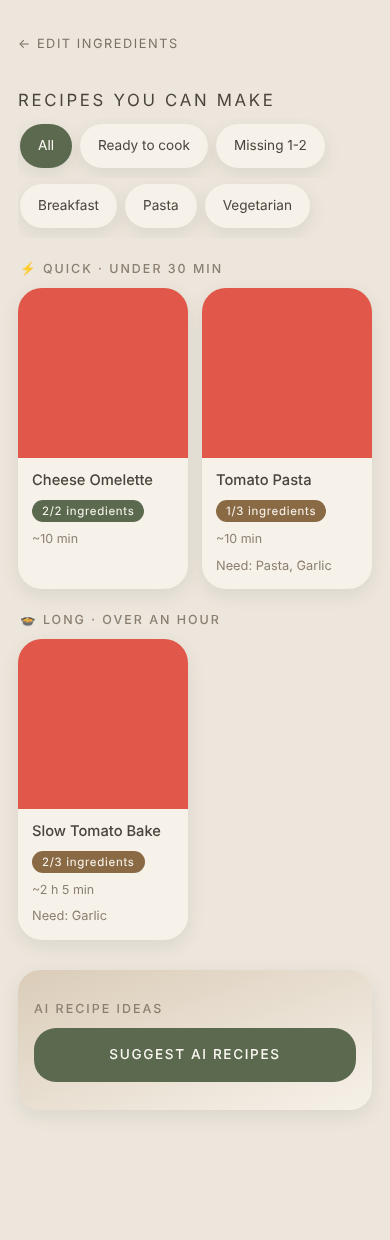
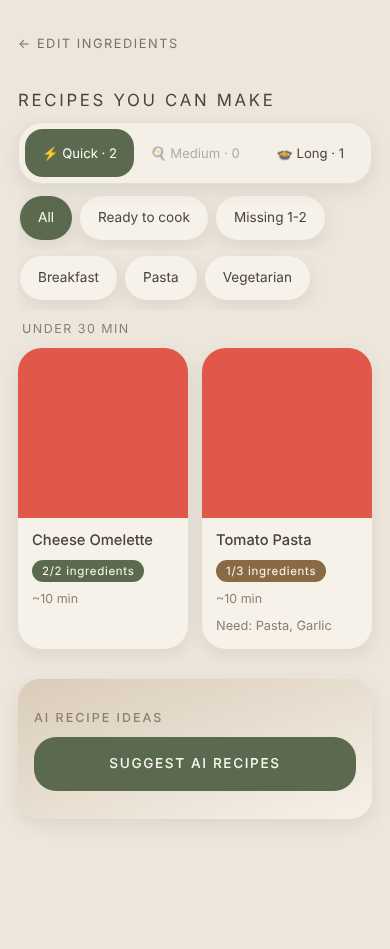
feat: effort levels as selectable tabs instead of scrolling groups
Claude-Session: https://claude.ai/code/session_01NBKf9rCD4rUQ8YLDit8gW7

diff --git a/src/ui/resultsScreen.ts b/src/ui/resultsScreen.ts
@@ -1,5 +1,5 @@
 import { AiQuotaError } from "../../shared/aiRecipes";
-import { EFFORT_LEVELS, estimateEffort, formatMinutes, groupByEffort } from "../effort";
+import { EFFORT_LEVELS, estimateEffort, formatMinutes, groupByEffort, pickLevel, type EffortLevel } from "../effort";
 import { matchRecipes } from "../matcher";
 import type { AiRecipe, Match, Recipe } from "../types";
 import { claimRoot, h } from "./dom";
@@ -10,6 +10,9 @@ export interface ResultsDeps {
   stale: boolean;
   fetchAi: (ingredients: string[]) => Promise<AiRecipe[]>;
   onOpen: (id: string) => void;
+  /** Level to open on (e.g. the one the user was on before opening a recipe). */
+  initialLevel?: EffortLevel;
+  onLevelChange?: (level: EffortLevel) => void;
 }
 
 type Filter = "all" | "ready" | "missing";
@@ -63,13 +66,14 @@ function aiCard(r: AiRecipe): HTMLElement {
 }
 
 export function renderResultsScreen(root: HTMLElement, deps: ResultsDeps): void {
-  const { fridge, recipes, stale, fetchAi, onOpen } = deps;
+  const { fridge, recipes, stale, fetchAi, onOpen, onLevelChange } = deps;
   const isCurrent = claimRoot(root);
   const matches = matchRecipes(fridge, recipes);
   const categories = [...new Set(matches.map((m) => m.recipe.category).filter(Boolean))].sort();
 
   let filter: Filter = "all";
   let category: string | null = null;
+  let level: EffortLevel | null = deps.initialLevel ?? null;
   let aiCards: AiRecipe[] = [];
   let aiLoading = false;
   let aiError = "";
@@ -121,6 +125,51 @@ export function renderResultsScreen(root: HTMLElement, deps: ResultsDeps): void 
     );
   }
 
+  function levelCounts(): Record<EffortLevel, number> {
+    const counts: Record<EffortLevel, number> = { quick: 0, medium: 0, long: 0 };
+    for (const group of groupByEffort(visible())) counts[group.level] = group.matches.length;
+    return counts;
+  }
+
+  function tabBar(): HTMLElement {
+    const counts = levelCounts();
+    level = pickLevel(level, counts);
+    return h(
+      "div",
+      { class: "tabs", role: "tablist" },
+      ...EFFORT_LEVELS.map(({ level: id, emoji, title }) =>
+        h(
+          "button",
+          {
+            class: "tab",
+            type: "button",
+            role: "tab",
+            "aria-selected": String(level === id),
+            disabled: counts[id] === 0,
+            onclick: () => {
+              level = id;
+              onLevelChange?.(id);
+              render();
+            },
+          },
+          `${emoji} ${title} · ${counts[id]}`,
+        ),
+      ),
+    );
+  }
+
+  function tabPanel(): HTMLElement | false {
+    const shown = groupByEffort(visible()).find((g) => g.level === level);
+    if (!shown) return h("p", { class: "empty" }, "Nothing matches these filters.");
+    const range = EFFORT_LEVELS.find((l) => l.level === shown.level)!.range;
+    return h(
+      "div",
+      { class: "level-panel", role: "tabpanel" },
+      h("p", { class: "level-range" }, range.charAt(0).toUpperCase() + range.slice(1)),
+      h("div", { class: "grid" }, ...shown.matches.map((m) => matchCard(m, onOpen))),
+    );
+  }
+
   function render(): void {
     if (!isCurrent()) return;
     const back = h("a", { class: "back", href: "#/" }, "← Edit ingredients");
@@ -140,6 +189,7 @@ export function renderResultsScreen(root: HTMLElement, deps: ResultsDeps): void 
         back,
         h("h1", {}, "Recipes you can make"),
         stale && h("p", { class: "notice" }, "You're offline, showing saved recipes."),
+        matches.length > 0 && tabBar(),
         matches.length > 0 &&
           h(
             "div",
@@ -160,19 +210,7 @@ export function renderResultsScreen(root: HTMLElement, deps: ResultsDeps): void 
           ? h("p", { class: "empty" }, "No recipes match yet. Add more food, or try the AI ideas below.")
           : list.length === 0
             ? h("p", { class: "empty" }, "Nothing matches these filters.")
-            : h(
-                "div",
-                { class: "levels" },
-                ...groupByEffort(list).map(({ level, matches: group }) => {
-                  const meta = EFFORT_LEVELS.find((l) => l.level === level)!;
-                  return h(
-                    "section",
-                    { class: "level-group" },
-                    h("h2", { class: "level-title" }, `${meta.emoji} ${meta.title} · ${meta.range}`),
-                    h("div", { class: "grid" }, ...group.map((m) => matchCard(m, onOpen))),
-                  );
-                }),
-              ),
+            : tabPanel(),
         aiSection(),
       ),
     );

diff --git a/tests/resultsScreen.test.ts b/tests/resultsScreen.test.ts
@@ -87,17 +87,54 @@ describe("real recipes", () => {
   });
 });
 
-describe("effort levels", () => {
+describe("effort tabs", () => {
   const slowOmelette = { ...omelette, id: "11", name: "Slow Omelette", instructions: "Cook gently for 3 hours." };
   const slowStew = { ...tomatoPasta, id: "12", name: "Slow Pasta", instructions: "Simmer for 3 hours." };
+  const tab = (text: string) => [...root.querySelectorAll<HTMLButtonElement>(".tabs button.tab")].find((b) => b.textContent!.includes(text))!;
+  const tabLabels = () => [...root.querySelectorAll(".tabs button.tab")].map((b) => b.textContent);
+  const selectedTab = () => root.querySelector(".tabs button.tab[aria-selected='true']")?.textContent;
 
-  test("groups cards under Quick / Medium / Long headings, quickest first, empty levels hidden", () => {
+  test("shows Quick / Medium / Long tabs with counts, opening on the quickest level with recipes", () => {
     mount({ recipes: [slowOmelette, omelette, chickenRice] });
-    const titles = [...root.querySelectorAll(".level-title")].map((t) => t.textContent);
-    expect(titles).toEqual(["⚡ Quick · under 30 min", "🍲 Long · over an hour"]);
-    const groups = [...root.querySelectorAll(".level-group")];
-    expect([...groups[0].querySelectorAll(".card-title")].map((t) => t.textContent)).toEqual(["Cheese Omelette", "Chicken Rice"]);
-    expect([...groups[1].querySelectorAll(".card-title")].map((t) => t.textContent)).toEqual(["Slow Omelette"]);
+    expect(tabLabels()).toEqual(["⚡ Quick · 2", "🍳 Medium · 0", "🍲 Long · 1"]);
+    expect(selectedTab()).toBe("⚡ Quick · 2");
+  });
+
+  test("only the selected level's cards are shown, and tapping a tab switches", () => {
+    mount({ recipes: [slowOmelette, omelette, chickenRice] });
+    expect(names()).toEqual(["Cheese Omelette", "Chicken Rice"]);
+    tab("Long").click();
+    expect(names()).toEqual(["Slow Omelette"]);
+    expect(selectedTab()).toBe("🍲 Long · 1");
+  });
+
+  test("a level with no recipes is disabled and cannot be selected", () => {
+    mount({ recipes: [slowOmelette, omelette] });
+    expect(tab("Medium").disabled).toBe(true);
+    tab("Medium").click();
+    expect(selectedTab()).toBe("⚡ Quick · 1");
+  });
+
+  test("counts follow the filters, and the screen moves to a level that still has recipes", () => {
+    mount({ recipes: [omelette, slowStew] });
+    tab("Long").click();
+    expect(names()).toEqual(["Slow Pasta"]);
+    click(".filters button", "Ready to cook");
+    expect(tabLabels()).toEqual(["⚡ Quick · 1", "🍳 Medium · 0", "🍲 Long · 0"]);
+    expect(names()).toEqual(["Cheese Omelette"]);
+  });
+
+  test("starts on the remembered level and reports the user's choice", () => {
+    const onLevelChange = vi.fn<(level: string) => void>();
+    mount({ recipes: [omelette, slowOmelette], initialLevel: "long", onLevelChange });
+    expect(names()).toEqual(["Slow Omelette"]);
+    tab("Quick").click();
+    expect(onLevelChange).toHaveBeenCalledWith("quick");
+  });
+
+  test("an empty remembered level falls back to one with recipes", () => {
+    mount({ recipes: [omelette], initialLevel: "long" });
+    expect(selectedTab()).toBe("⚡ Quick · 1");
   });
 
   test("each card shows its estimated time", () => {
@@ -105,11 +142,9 @@ describe("effort levels", () => {
     expect(cards()[0].querySelector(".time")!.textContent).toBe("~10 min");
   });
 
-  test("filters apply across groups and a group with no visible cards disappears", () => {
-    mount({ recipes: [omelette, slowStew] });
-    click(".filters button", "Ready to cook");
-    expect([...root.querySelectorAll(".level-title")].map((t) => t.textContent)).toEqual(["⚡ Quick · under 30 min"]);
-    expect(names()).toEqual(["Cheese Omelette"]);
+  test("the selected level is explained under the tabs", () => {
+    mount({ recipes: [omelette] });
+    expect(root.querySelector(".level-range")!.textContent).toBe("Under 30 min");
   });
 });
 

diff --git a/tests/e2e/phone.spec.ts b/tests/e2e/phone.spec.ts
@@ -69,11 +69,16 @@ test("add food, find recipes, open one, and get AI ideas", async ({ page }) => {
   await expect(firstCard.locator("img")).toHaveAttribute("src", /test-1\.jpg/);
   await expect(firstCard.locator(".badge")).toHaveText("2/2 ingredients");
   await expect(firstCard.locator(".time")).toContainText("min");
-  await expect(page.locator(".level-title").first()).toContainText("Quick");
-  await expect(page.locator(".level-title").last()).toContainText("Long");
+  await expect(page.locator(".tab[aria-selected='true']")).toContainText("Quick");
+  await expect(page.locator(".tab").nth(1)).toBeDisabled();
   await page.screenshot({ path: "docs/screenshots/2-results.png", fullPage: true });
   await noHorizontalScroll(page);
 
+  await page.locator(".tab", { hasText: "Long" }).click();
+  await expect(page.locator(".grid .card")).toHaveCount(1);
+  await expect(page.locator(".grid .card .card-title")).toHaveText("Slow Tomato Bake");
+  await page.screenshot({ path: "docs/screenshots/2b-results-long.png", fullPage: true });
+  await page.locator(".tab", { hasText: "Quick" }).click();
   await firstCard.click();
   await expect(page.getByRole("heading", { name: "Cheese Omelette" })).toBeVisible();
   await expect(page.getByRole("heading", { name: "You'll also need" })).toBeVisible();
@@ -82,6 +87,7 @@ test("add food, find recipes, open one, and get AI ideas", async ({ page }) => {
 
   await page.locator("button.back").click();
   await expect(page.locator(".grid .card").first()).toBeVisible();
+  await expect(page.locator(".tab[aria-selected='true']")).toContainText("Quick");
   await page.locator(".ai-suggest").click();
   await expect(page.locator(".ai-card")).toHaveCount(3);
   await expect(page.locator(".ai-label").first()).toHaveText("AI suggestion, not kitchen-tested");

diff --git a/tests/effort.test.ts b/tests/effort.test.ts
@@ -1,5 +1,5 @@
 import { describe, expect, test } from "vitest";
-import { estimateEffort, formatMinutes, groupByEffort, levelForMinutes } from "../src/effort";
+import { estimateEffort, formatMinutes, groupByEffort, levelForMinutes, pickLevel } from "../src/effort";
 import type { Match } from "../src/types";
 import { recipe } from "./fixtures/recipes";
 
@@ -93,5 +93,23 @@ describe("groupByEffort", () => {
     expect(groups.map((g) => g.level)).toEqual(["quick", "medium", "long"]);
     expect(groups[0].matches.map((m) => m.recipe.id)).toEqual(["2", "3"]);
     expect(groupByEffort([match("2", "Fry for 5 minutes.")]).map((g) => g.level)).toEqual(["quick"]);
+  });
+});
+
+describe("pickLevel", () => {
+  const counts = (quick: number, medium: number, long: number) => ({ quick, medium, long });
+  test("keeps the preferred level when it has recipes", () => {
+    expect(pickLevel("long", counts(3, 2, 1))).toBe("long");
+  });
+  test("without a preference, picks the quickest level that has recipes", () => {
+    expect(pickLevel(null, counts(0, 2, 1))).toBe("medium");
+  });
+  test("moves to the nearest level when the preferred one is empty", () => {
+    expect(pickLevel("long", counts(3, 2, 0))).toBe("medium");
+    expect(pickLevel("quick", counts(0, 0, 4))).toBe("long");
+    expect(pickLevel("medium", counts(2, 0, 2))).toBe("quick");
+  });
+  test("returns null when everything is empty", () => {
+    expect(pickLevel("quick", counts(0, 0, 0))).toBeNull();
   });
 });

diff --git a/src/ui/styles.css b/src/ui/styles.css
@@ -295,8 +295,34 @@ button.find:disabled { opacity: 0.5; cursor: default; }
 .detail .source { display: inline-flex; align-items: center; min-height: 44px; margin-top: 18px; color: var(--sage-strong); font-weight: 500; }
 
 /* Effort levels */
-.level-group { margin-top: 6px; }
-.level-title { margin: 22px 2px 4px; }
+.tabs {
+  position: sticky;
+  top: 8px;
+  z-index: 5;
+  display: grid;
+  grid-template-columns: repeat(3, 1fr);
+  gap: 6px;
+  margin: 10px 0 6px;
+  padding: 6px;
+  border-radius: 24px;
+  background: color-mix(in srgb, var(--surface) 82%, transparent);
+  backdrop-filter: blur(14px);
+  -webkit-backdrop-filter: blur(14px);
+  border: 1px solid var(--border);
+  box-shadow: var(--shadow);
+}
+.tab {
+  min-height: 48px;
+  padding: 0 6px;
+  border: 0;
+  border-radius: 18px;
+  background: transparent;
+  font-size: 0.82rem;
+  white-space: nowrap;
+}
+.tab[aria-selected="true"] { background: var(--sage-strong); color: var(--on-color); }
+.tab:disabled { opacity: 0.4; cursor: default; }
+.level-range { margin: 10px 4px 0; font-size: 0.78rem; letter-spacing: 0.12em; text-transform: uppercase; color: var(--muted); }
 .card-meta { display: flex; align-items: center; justify-content: space-between; gap: 8px; flex-wrap: wrap; }
 .time { font-size: 0.78rem; color: var(--muted); }
 .ai-time { font-size: 0.78rem; color: var(--taupe); }

diff --git a/src/ui/app.ts b/src/ui/app.ts
@@ -4,6 +4,7 @@ import { buildVocabulary } from "../ingredients/vocabulary";
 import { LibraryUnavailableError, loadLibrary } from "../library";
 import { createIdbCache } from "../library/cache";
 import { fetchAllMeals } from "../library/mealdb";
+import type { EffortLevel } from "../effort";
 import type { Recipe } from "../types";
 import { claimRoot, h } from "./dom";
 import { matchOne } from "../matcher";
@@ -24,6 +25,7 @@ export function startApp(root: HTMLElement): void {
   let vocab: string[] = [];
 
   let home: IngredientsScreen | null = null;
+  let lastLevel: EffortLevel | undefined;
 
   const showHome = () => {
     home = renderIngredientsScreen(root, { fridge, vocab, onFind: () => (window.location.hash = "#/results") });
@@ -75,6 +77,8 @@ export function startApp(root: HTMLElement): void {
           stale,
           fetchAi: (ingredients) => fetchAiRecipes(ingredients),
           onOpen: (id) => (window.location.hash = `#/recipe/${id}`),
+          initialLevel: lastLevel,
+          onLevelChange: (level) => (lastLevel = level),
         });
       })
       .catch((error: unknown) => {

diff --git a/src/effort.ts b/src/effort.ts
@@ -72,3 +72,11 @@ export function groupByEffort(matches: Match[]): Array<{ level: EffortLevel; mat
   }
   return EFFORT_LEVELS.filter(({ level }) => groups.has(level)).map(({ level }) => ({ level, matches: groups.get(level)! }));
 }
+
+/** The level to show: the preferred one if it has recipes, else the nearest level that does (quicker wins ties). */
+export function pickLevel(preferred: EffortLevel | null, counts: Record<EffortLevel, number>): EffortLevel | null {
+  const order = EFFORT_LEVELS.map((l) => l.level);
+  const start = preferred === null ? 0 : order.indexOf(preferred);
+  const byDistance = [...order].sort((a, b) => Math.abs(order.indexOf(a) - start) - Math.abs(order.indexOf(b) - start) || order.indexOf(a) - order.indexOf(b));
+  return byDistance.find((level) => counts[level] > 0) ?? null;
+}

diff --git a/README.md b/README.md
@@ -4,7 +4,7 @@ Add what's in your fridge, get recipes you can cook. Built for students and peop
 
 - **Real recipes with photos** from [TheMealDB](https://www.themealdb.com). The whole library is downloaded once (26 small requests), cached on the phone, and matched on-device, so there are no search limits.
 - **Match badges**: "ready to cook" or "missing 1-2". Salt, oil, water and similar staples are assumed and listed as "You'll also need".
-- **Effort levels**: recipes are grouped as Quick (under 30 min), Medium (30-60 min) and Long (over an hour). TheMealDB has no cooking times, so the app estimates them from the durations written in the instructions plus prep time (see `src/effort.ts`). AI recipes include a total time from the model.
+- **Effort levels**: recipes are shown in tabs: Quick (under 30 min), Medium (30-60 min) and Long (over an hour). TheMealDB has no cooking times, so the app estimates them from the durations written in the instructions plus prep time (see `src/effort.ts`). AI recipes include a total time from the model.
 - **AI recipe ideas** in a separate, clearly labelled section (Gemini free tier), only when you tap the button.
 - No accounts. Your fridge list is stored on your phone.
 
